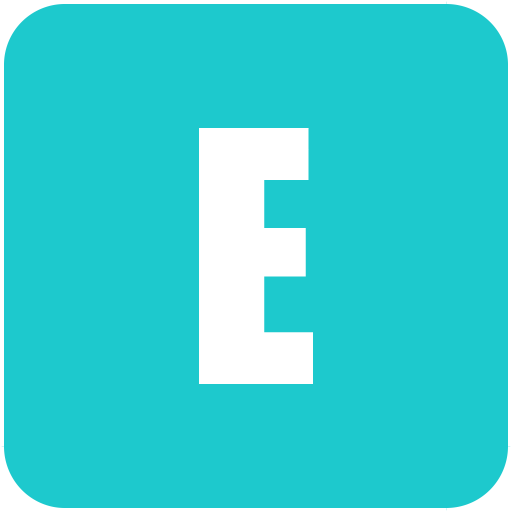
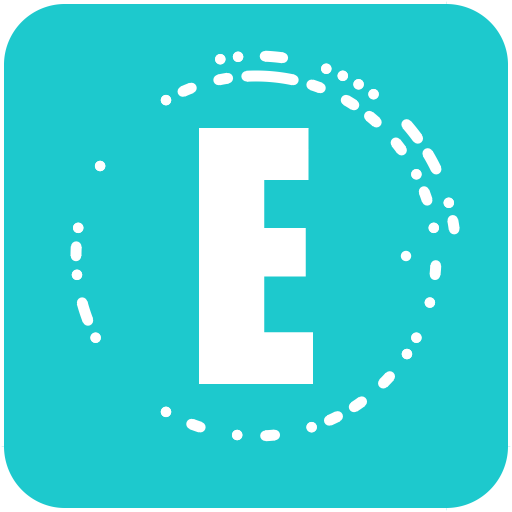
Codec, data drawing on image

diff --git a/code/generator.py b/code/generator.py
@@ -1,22 +1,31 @@
 from PIL import Image, ImageDraw
 import aggdraw
+from math import cos, sin, pi
+
 
 class Generator:
     def __init__(self, config):
         self.config = config
         
     
-    def generate(self, text):
-        image = Image.new('RGBA', self.config.size, (255,255,255,0))
+    def generate(self, data):
+        image = Image.new('RGBA', (self.config.size, self.config.size), (255,255,255,0))
         self.last_image = image
+
         #draw = ImageDraw.Draw(image)
         draw = aggdraw.Draw(image)
         
         self.draw_background(draw)
+        draw.flush()
         
         self.insert_logo(image)
+        draw = aggdraw.Draw(image)
         
-        self.insert_data()
+        self.insert_centring_key(draw)
+        
+        self.insert_data(draw, data)
+        
+        draw.flush()
         
         image.save(self.config.generated_filename + '.png', 'PNG')
         pass
@@ -40,7 +49,7 @@ class Generator:
             outline = None
             width = 0
 
-        size = (width/2, width/2, self.config.size[0] - width/2, self.config.size[1] - width/2)
+        size = (width/2, width/2, self.config.size - width/2, self.config.size - width/2)
 
         if shape == 'circle':
             draw.ellipse(size, outline, fill)
@@ -81,9 +90,7 @@ class Generator:
             draw.arc((size[2] - round_half[0], size[1], size[2], round_half[1]), 0, 90, outline)
             draw.arc((size[0], size[3] - round_half[1], round_half[0], size[3]), 180, 270, outline)
             draw.arc((size[2] - round_half[0], size[3] - round_half[1], size[2], size[3]), 270, 360, outline)
-            
-        draw.flush()
-    
+
     
     def insert_logo(self, image):
         draw_type = self.config.logo_draw_type
@@ -103,7 +110,7 @@ class Generator:
         if logo.size[0] > image.size[0] or logo.size[1] > image.size[1]:
             raise Exception('Logo is larger than image code.')
         
-        ofs = [int((a - logo.size[i]) / 2) for i, a in enumerate(self.config.size)]
+        ofs = [int((self.config.size - a) / 2) for i, a in enumerate(logo.size)]
         
         def to_rgba(c):
             if len(c) <= 4: return c
@@ -134,10 +141,65 @@ class Generator:
         
         image.putdata(data)
         
+        
     
-    def insert_data(self):
-        pass
+    def insert_centring_key(self, draw):
     
+        center = (self.config.size / 2  + self.config.key_radius, self.config.size / 2)
+        width = self.config.data_width / 2
+        fill = aggdraw.Brush(self.config.data_color)
+        draw.ellipse((center[0] - width, center[1] - width,
+                      center[0] + width, center[1] + width), None, fill)
     
+        
+    def insert_data(self, draw, data):
+        center = (self.config.size / 2, self.config.size / 2)
+        width = self.config.data_width / 2
+        fill = aggdraw.Brush(self.config.data_color)
+        pen = aggdraw.Pen(self.config.data_color, width * 2 + 1)
+        
+        ofs = 0
+        for i in range(1, 11):
+            if ofs >= len(data):
+                break
+            key = 'data_layer_' + str(i)
+            try:
+                layer = self.config.__getattr__(key)
+                radius, count = layer
+                layer_data = data[ofs : min(ofs + count, len(data))]
+                ofs += count
+            except:
+                continue
+            
+            point = (center[0], center[1])
+            ac, ar = 2 * pi / count, 360 / count
+            field = (point[0] - radius, point[1] - radius,
+                     point[0] + radius, point[1] + radius)
+            i1 = 0
+            dl = len(layer_data)
+            while i1 < dl:
+                if not layer_data[i1]:
+                    i1 += 1
+                    continue
+                
+                i2 = i1
+                while i2 + 1 < dl and layer_data[i2 + 1]:
+                    i2 += 1
+                p1 = i1 * ar
+                a1 = i1 * ac
+                a1 = (center[0] + cos(a1) * radius, center[1] - sin(a1) * radius)
+                p2 = i2 * ar
+                a2 = i2 * ac
+                a2 = (center[0] + cos(a2) * radius, center[1] - sin(a2) * radius)
+ 
+                draw.ellipse((a1[0] - width, a1[1] - width,
+                              a1[0] + width, a1[1] + width), None, fill)
+                draw.ellipse((a2[0] - width, a2[1] - width,
+                              a2[0] + width, a2[1] + width), None, fill)
+                draw.arc(field, p1, p2, pen)
+                i1 = i2 + 1
+
+        
     def show(self):
         self.last_image.show()
+    

diff --git a/code/codec.py b/code/codec.py
@@ -1,0 +1,81 @@
+from reedsolo import RSCodec
+
+class Codec:
+    
+    def __init__(self, config):
+        
+        alphabet = config.alphabet
+        if config.alphabet is None:
+            alphabet = ''
+            for i in range(128):
+                alphabet += chr(i)
+        
+        self.alphabet = alphabet
+        self.size = 1
+        while 2 ** self.size < len(self.alphabet):
+            self.size += 1
+        
+        ecc = config.ecc if config.ecc is not None else 14
+        self.codec = RSCodec(ecc) 
+        
+        
+    def encode(self, message):
+        bits = []
+        for c in message:
+            a = self.alphabet.find(c)
+            if a < 0: continue
+            
+            for i in range(self.size):
+                bits.append(a % 2)
+                a = int(a / 2)
+        
+        encoded = self.codec.encode(Codec.bits_to_bytes(bits))
+        encoded = Codec.bytes_to_bits(encoded)
+        return encoded
+    
+    
+    def decode(self, code):
+        bits = self.codec.decode(code)
+        msg = ''
+        
+        for i in range(0, len(bits), self.size):
+            s = 0
+            for j, c in enumerate(bits[i : i+self.size]):
+                s += int(c) * (2 ** j)
+            
+            msg += chr(s)
+            
+        return msg
+
+    
+    def bits_to_bytes(bits_):
+        bytes_ = []
+        
+        l = len(bits_)
+        for i in range(0, l, 8):
+            byte = 0
+            for j in range(0, 8):
+                if i + j < l:
+                    byte = (byte << 1) | (1 if bits_[i + j] else 0)
+                else:
+                    byte = (byte << 1) | 0
+            bytes_.append(byte)
+            
+        return bytes(bytes_)
+    
+    
+    def bytes_to_bits(bytes_):
+        bits_ = []
+        
+        for i in range(0, len(bytes_)):
+            byte = bytes_[i]
+            ar = []
+            for j in range(0, 8):
+                bit = byte % 2 == 1
+                byte = byte >> 1
+                ar.insert(0, bit)
+            bits_ += ar
+        
+        return bits_
+
+

diff --git a/main.py b/main.py
@@ -8,6 +8,7 @@ import code.config_parser as config_parser
 import code.generator as generator
 import code.parser as parser
 import code.tester as tester
+import code.codec as codec
 
 
 def print_err(*args, **kwargs):
@@ -91,24 +92,27 @@ if __name__ == '__main__':
         exit()
     
     config = config_parser.Config(config_file, encoding)
+    coder = codec.Codec(config)
     
     if operation[0] == 'gen-inline':
         msg = operation[1]
+        encoded = coder.encode(msg)
         gen = generator.Generator(config)
-        gen.generate(msg)
+        gen.generate(encoded)
         if show_trigger:
             gen.show()
 
     elif operation[0] == 'gen-file':
         f = codecs.open(operation[1], 'r', encoding)
         msg = f.read()
+        encoded = coder.encode(msg)
 
         gen = generator.Generator(config)
-        gen.generate(msg)
+        gen.generate(encoded)
         if show_trigger:
             gen.show()
 
     elif operation[0] == 'parse':
         prs = parser.Parser(config)
         msg = prs.parse(operation[1])
-        print(msg)
+        print(coder.decode(msg))

diff --git a/code/config_parser.py b/code/config_parser.py
@@ -21,13 +21,19 @@ class Config:
             'logo_path': 'resources/logo.png',
             'logo_draw_type': 'sub', # set, sub,
             'logo_scale': 1,
-            'size': (512, 512),
+            'size': 512,
             'background_shape': 'circle',  # circle, rectangle, soft_rectangle
             'background_color': (121, 180, 110),
             'outline_color': None,
             'outline_width': None,
             'data_color': (255, 255, 255),
-            'generated_filename': 'code'
+            'generated_filename': 'code',
+            'ecc': 14,
+            'key_radius': 150,
+            'data_width': 10,
+            'data_layer_1': (180, 120),
+            'data_layer_2': (200, 140),
+            'data_layer_3': (220, 160)
         }
 
 

diff --git a/tests/codec_bits_and_bytes.py b/tests/codec_bits_and_bytes.py
@@ -1,0 +1,16 @@
+def test(code):
+
+    from code import codec
+    
+    a = [0,1,1,0,1,1,0,0, 1,1,0,1,0,1 ] # 108, 212
+    b = codec.Codec.bits_to_bytes(a)
+    
+    assert b[0] == 108
+    assert b[1] == 212
+    
+    c = codec.Codec.bytes_to_bits(b)
+    
+    a.append(0)
+    a.append(0)
+
+    assert c == a
